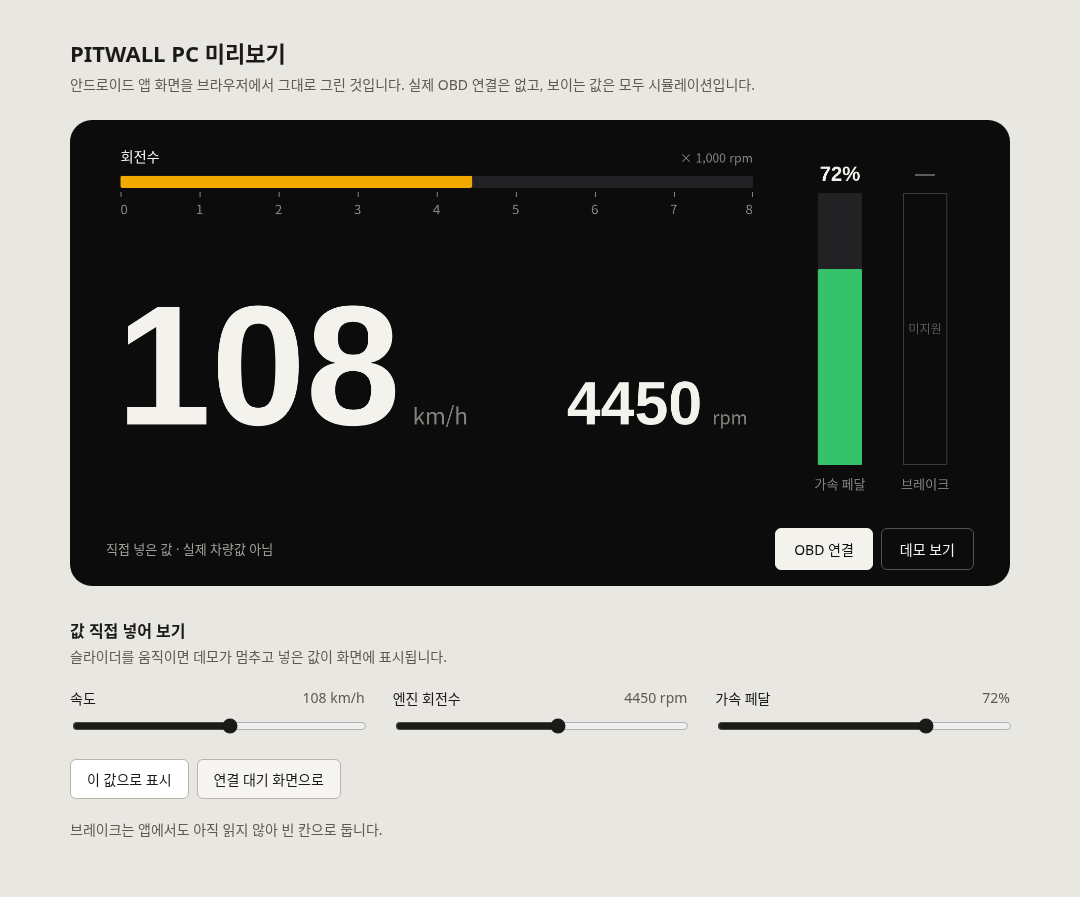
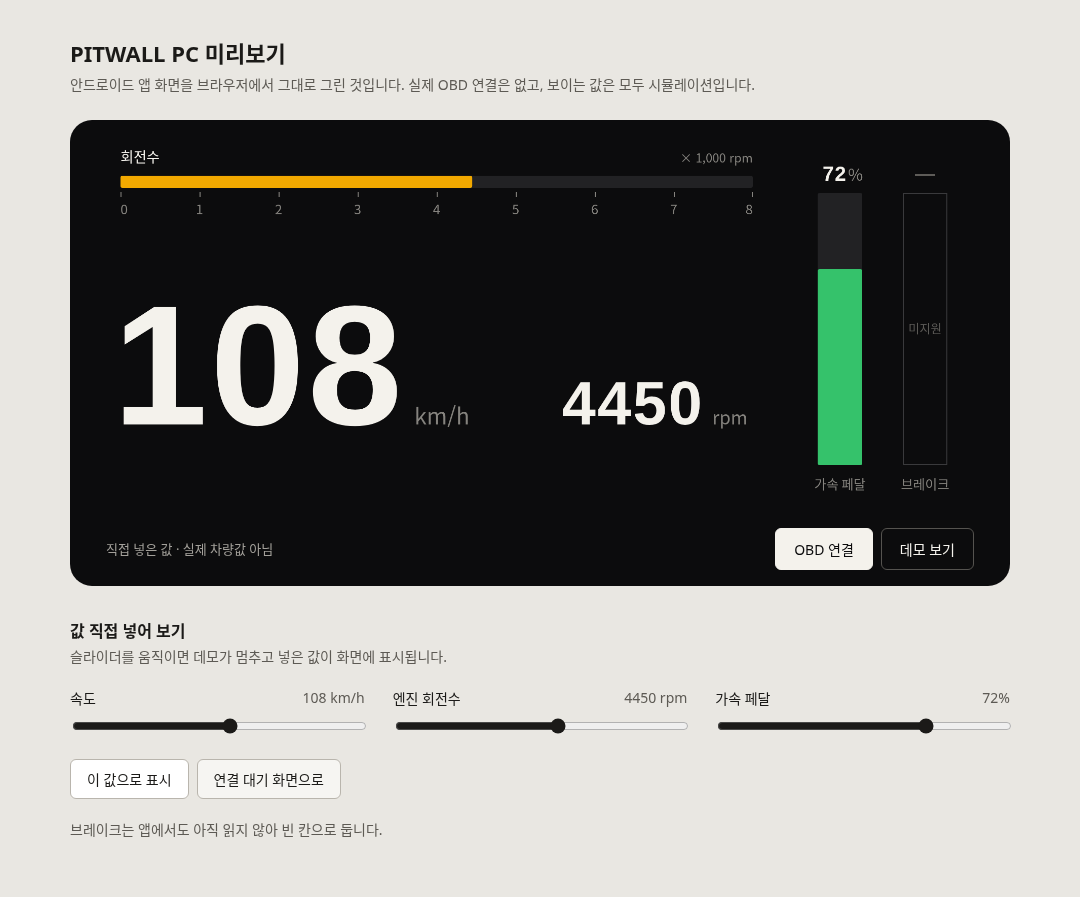
Soften telemetry digit changes and anchor numeric columns

diff --git a/preview/index.html b/preview/index.html
@@ -97,7 +97,42 @@ function text(s, x, y, size, color, bold, align = 'left') {
   ctx.fillText(s, x, y);
   return ctx.measureText(s).width;
 }
-const num = v => v < 0 ? '—' : String(v);
+function makeReadout(columns) {
+  const glyphs = Array.from({length: columns}, () => ({digit: -1, previous: -1, changed: 0}));
+  let valid = false;
+  return function(value, edge, baseline, size, pitch, now) {
+    if (value < 0) {
+      valid = false;
+      text('—', edge, baseline, size, INK, true, 'right');
+      return false;
+    }
+    let moving = false, remaining = value;
+    glyphs.forEach((glyph, column) => {
+      const next = column === 0 || remaining > 0 ? remaining % 10 : -1;
+      remaining = Math.trunc(remaining / 10);
+      if (!valid || glyph.digit !== next) {
+        glyph.previous = valid ? glyph.digit : -1;
+        glyph.digit = next;
+        glyph.changed = valid ? now : now - 90;
+      }
+      const progress = Math.max(0, Math.min(1, (now - glyph.changed) / 90));
+      const fade = (1 - progress) ** 2, x = edge - column * pitch;
+      if (fade > 0 && glyph.previous >= 0) {
+        ctx.globalAlpha = 100 / 255 * fade;
+        text(String(glyph.previous), x, baseline - size * .025 * (1-fade), size, INK, true, 'right');
+      }
+      if (next >= 0) {
+        ctx.globalAlpha = 1 - 100 / 255 * fade;
+        text(String(next), x, baseline + size * .025 * fade, size, INK, true, 'right');
+      }
+      ctx.globalAlpha = 1;
+      moving ||= progress < 1;
+    });
+    valid = true;
+    return moving;
+  };
+}
+const speedText = makeReadout(3), rpmText = makeReadout(5), pedalText = makeReadout(3);
 
 let rpmWidth = -1, pedalHeight = -1, lastFrame = 0, frame = 0;
 function approach(current, target, weight) {
@@ -130,22 +165,23 @@ function draw(now = performance.now()) {
   }
 
   // 속도와 회전수
-  const w = text(num(vals.speed), 32, 290, 168, INK, true);
-  text('km/h', 32 + w + 12, 290, 22, DIM, false);
-  text(num(vals.rpm), 610, 290, 60, INK, true, 'right');
+  const speedMoving = speedText(vals.speed, 314, 290, 168, 96, now);
+  text('km/h', 326, 290, 22, DIM, false);
+  const rpmMoving = rpmText(vals.rpm, 610, 290, 60, 35, now);
   text('rpm', 620, 290, 18, DIM, false);
 
   // 페달
   bar(724, 62, 44, 268, TRACK);
   bar(724, 330 - pedalHeight, 44, pedalHeight, GREEN);
-  text(vals.pedal < 0 ? '—' : vals.pedal + '%', 746, 50, 20, INK, true, 'center');
+  const pedalMoving = pedalText(vals.pedal, 752, 50, 20, 12, now);
+  if (vals.pedal >= 0) text('%', 754, 50, 16, DIM, false);
   text(pedalLabel, 746, 354, 13, DIM, false, 'center');
 
   ctx.strokeStyle = '#3a3a3c'; ctx.lineWidth = 1; ctx.strokeRect(808.5, 62.5, 43, 267);
   text('미지원', 830, 200, 12, '#5e5c58', false, 'center');
   text('—', 830, 50, 20, '#5e5c58', true, 'center');
   text('브레이크', 830, 354, 13, DIM, false, 'center');
-  if (mode === 'demo' || rpmWidth !== rpmTarget || pedalHeight !== pedalTarget) {
+  if (speedMoving || rpmMoving || pedalMoving || mode === 'demo' || rpmWidth !== rpmTarget || pedalHeight !== pedalTarget) {
     frame = requestAnimationFrame(animate);
   }
 }

diff --git a/app/src/main/java/com/torquescope/MainActivity.java b/app/src/main/java/com/torquescope/MainActivity.java
@@ -187,7 +187,7 @@ public class MainActivity extends Activity {
     }
     float rpmWidth=-1, pedalHeight=-1;
     long lastFrame;
-    void resetBars() {rpmWidth=pedalHeight=-1; lastFrame=0;}
+    void resetBars() {speedText.valid=rpmText.valid=pedalText.valid=false; rpmWidth=pedalHeight=-1; lastFrame=0;}
     float approach(float current,float target,float weight) {
       if(target<0 || current<0 || Math.abs(target-current)<0.35f) return target;
       return current+(target-current)*weight;
@@ -197,7 +197,54 @@ public class MainActivity extends Activity {
       p.setStyle(Paint.Style.FILL); p.setColor(color);
       c.drawRoundRect(x,y,x+w,y+h,2,2,p);
     }
-    String num(int v) {return v<0?"—":String.valueOf(v);}
+    final Readout speedText=new Readout(3), rpmText=new Readout(5), pedalText=new Readout(3);
+
+    // Each column follows the latest sample independently, including leading spaces.
+    class Readout {
+      final int[] glyph, previous;
+      final long[] changed;
+      final String[] characters={"0","1","2","3","4","5","6","7","8","9"};
+      boolean valid;
+
+      Readout(int columns) {
+        glyph=new int[columns];
+        previous=new int[columns];
+        changed=new long[columns];
+      }
+
+      boolean draw(int value,float edge,float baseline,float size,float pitch,long now) {
+        if(value<0) {
+          valid=false;
+          text("—",edge,baseline,size,INK,true,Paint.Align.RIGHT);
+          return false;
+        }
+        boolean moving=false;
+        int remaining=value;
+        for(int column=0;column<glyph.length;column++) {
+          int next=column==0 || remaining>0 ? remaining%10 : -1;
+          remaining/=10;
+          if(!valid || glyph[column]!=next) {
+            previous[column]=valid?glyph[column]:-1;
+            glyph[column]=next;
+            changed[column]=valid?now:now-90;
+          }
+          float progress=Math.min(1,(now-changed[column])/90f);
+          float fade=(1-progress)*(1-progress);
+          float x=edge-column*pitch;
+          if(fade>0 && previous[column]>=0) {
+            int oldColor=Color.argb(Math.round(100*fade),244,242,236);
+            text(characters[previous[column]],x,baseline-size*.025f*(1-fade),size,oldColor,true,Paint.Align.RIGHT);
+          }
+          if(next>=0) {
+            int newColor=Color.argb(255-Math.round(100*fade),244,242,236);
+            text(characters[next],x,baseline+size*.025f*fade,size,newColor,true,Paint.Align.RIGHT);
+          }
+          moving |= progress<1;
+        }
+        valid=true;
+        return moving;
+      }
+    }
     @Override protected void onDraw(Canvas canvas) {
       c=canvas; float scale=Math.min(getWidth()/900f,getHeight()/390f);
       c.drawColor(BG);
@@ -222,15 +269,16 @@ public class MainActivity extends Activity {
       }
 
       // 속도와 회전수
-      float w=text(num(speed),32,290,168,INK,true,L);
-      text("km/h",32+w+12,290,22,DIM,false,L);
-      text(num(rpm),610,290,60,INK,true,R);
+      boolean moving=speedText.draw(speed,314,290,168,96,now);
+      text("km/h",326,290,22,DIM,false,L);
+      moving |= rpmText.draw(rpm,610,290,60,35,now);
       text("rpm",620,290,18,DIM,false,L);
 
       // 페달
       bar(724,62,44,268,TRACK);
       bar(724,330-pedalHeight,44,pedalHeight,GREEN);
-      text(pedal<0?"—":pedal+"%",746,50,20,INK,true,C);
+      moving |= pedalText.draw(pedal,752,50,20,12,now);
+      if(pedal>=0) text("%",754,50,16,DIM,false,L);
       text(pedalLabel,746,354,13,DIM,false,C);
 
       p.setStyle(Paint.Style.STROKE); p.setStrokeWidth(1); p.setColor(0xff3a3a3c); c.drawRect(808.5f,62.5f,851.5f,329.5f,p);
@@ -238,7 +286,7 @@ public class MainActivity extends Activity {
       text("—",830,50,20,FAINT,true,C);
       text("브레이크",830,354,13,DIM,false,C);
       c.restore();
-      if(rpmWidth!=rpmTarget || pedalHeight!=pedalTarget) postInvalidateOnAnimation();
+      if(moving || rpmWidth!=rpmTarget || pedalHeight!=pedalTarget) postInvalidateOnAnimation();
     }
   }
 }

diff --git a/README.md b/README.md
@@ -1,6 +1,6 @@
 # PITWALL
 
-현재 배포본은 **v0.7**입니다. 회전수와 가속 페달 게이지가 연속된 막대로 움직이며 수치는 최신 측정값을 표시합니다. [안드로이드 APK](downloads/pitwall-prototype.apk) · [개선 계획과 평가 결과](REVIEW-v0.6.md)
+현재 배포본은 **v0.8**입니다. 회전수와 가속 페달 게이지가 연속된 막대로 움직이며 수치는 바뀐 자릿수만 90ms 동안 전환합니다. [안드로이드 APK](downloads/pitwall-prototype.apk) · [개선 계획과 평가 결과](REVIEW-v0.6.md)
 
 토레스 J150에서 OBD-II 동글을 이용해 속도, 엔진 회전수, 가속 입력을 확인하기 위한 안드로이드 프로토타입입니다. PC용 화면 미리보기는 `preview/index.html`을 브라우저에서 열면 됩니다. 설치나 서버가 필요하지 않습니다.
 
